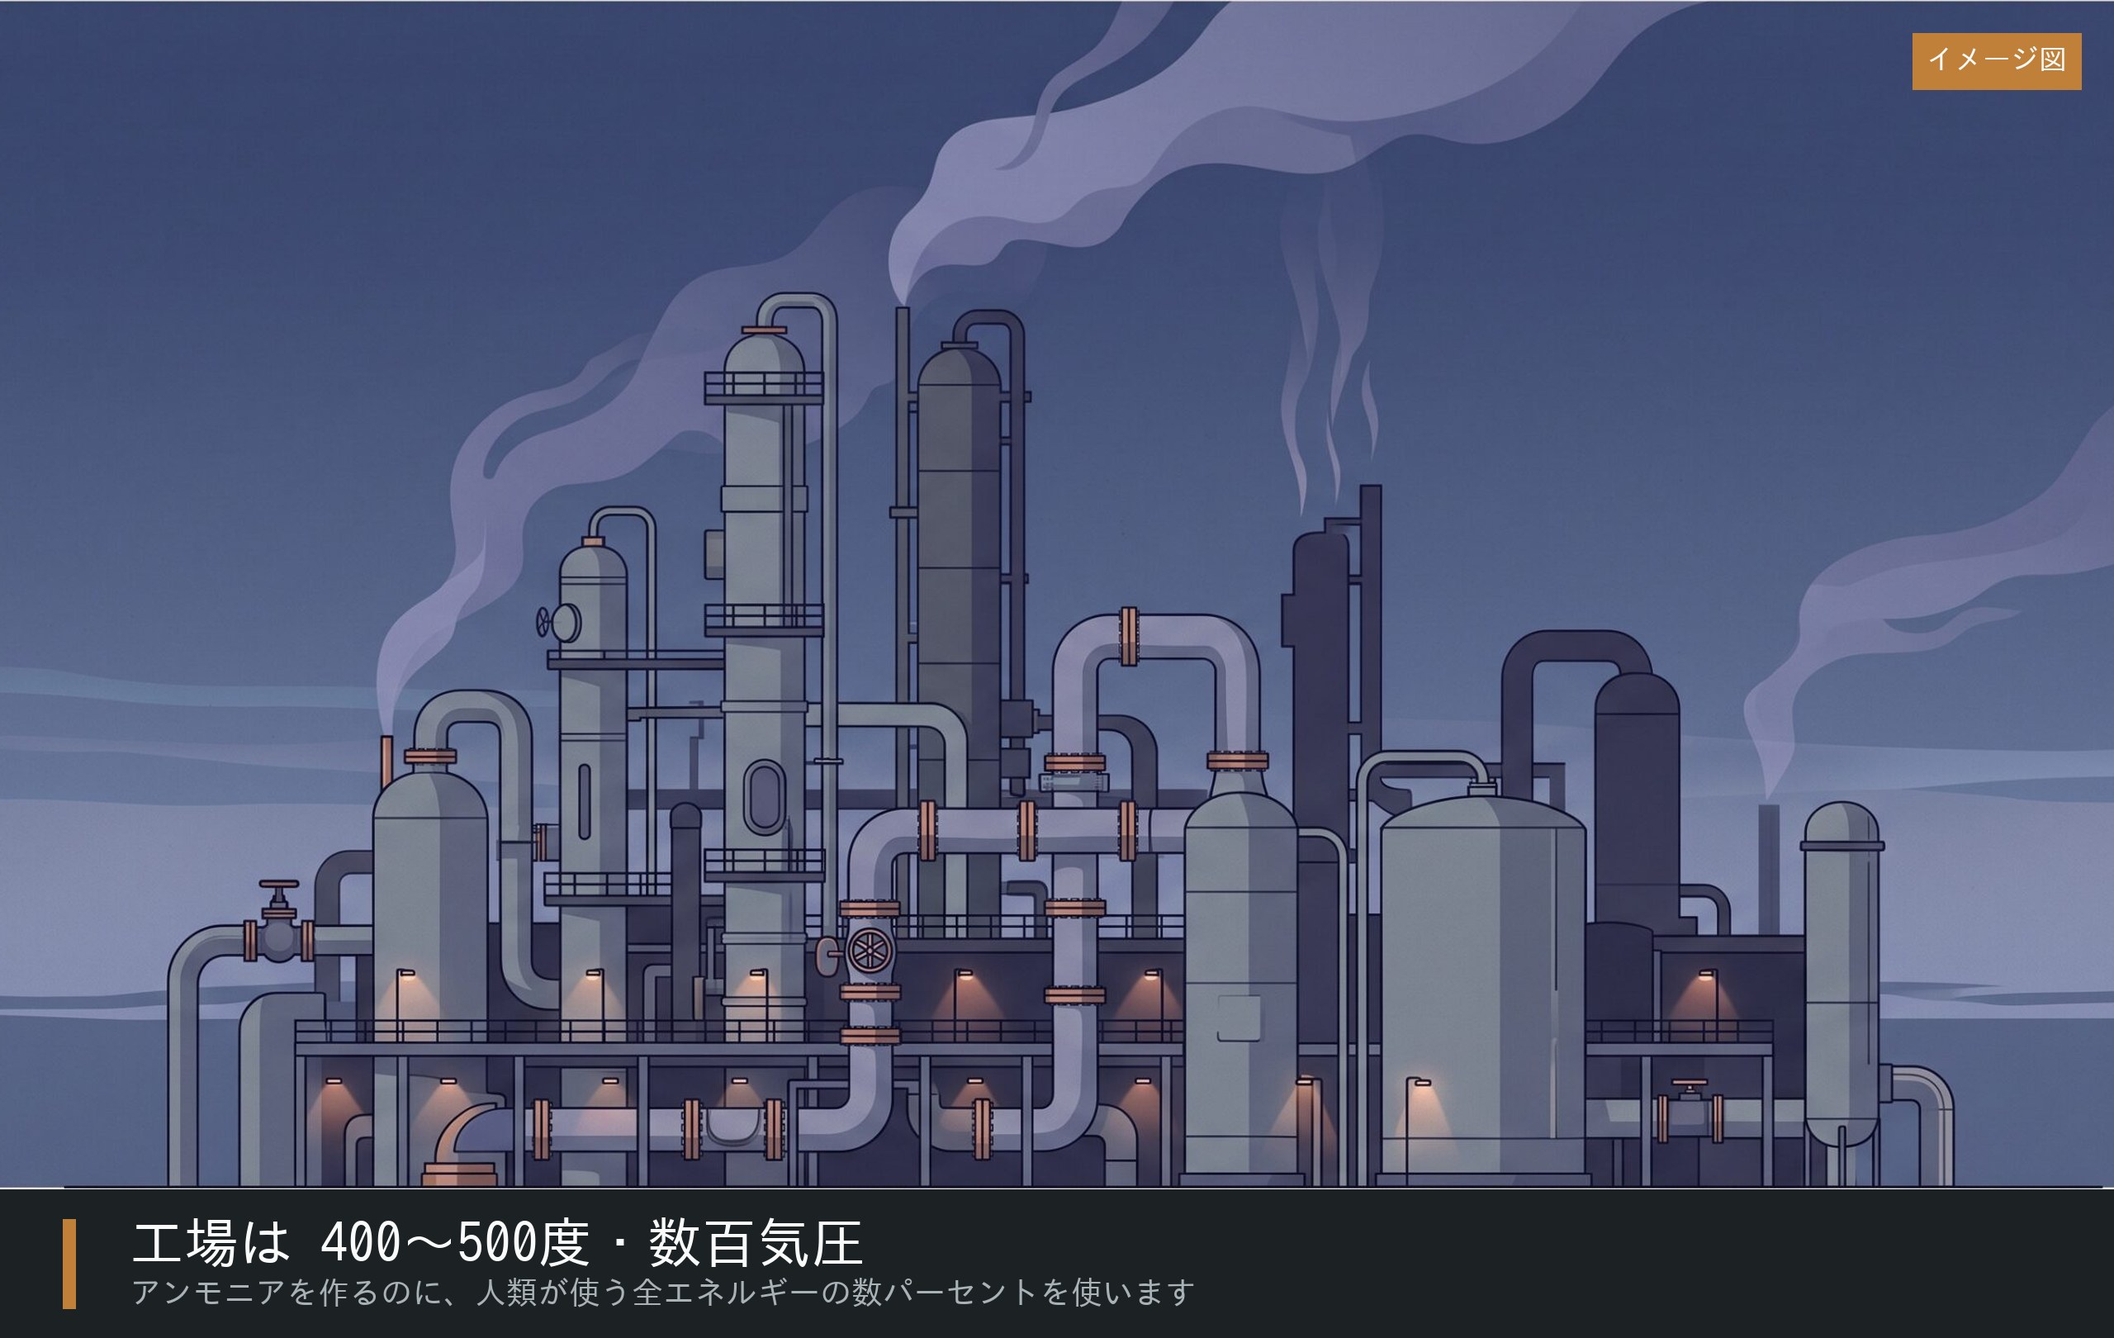
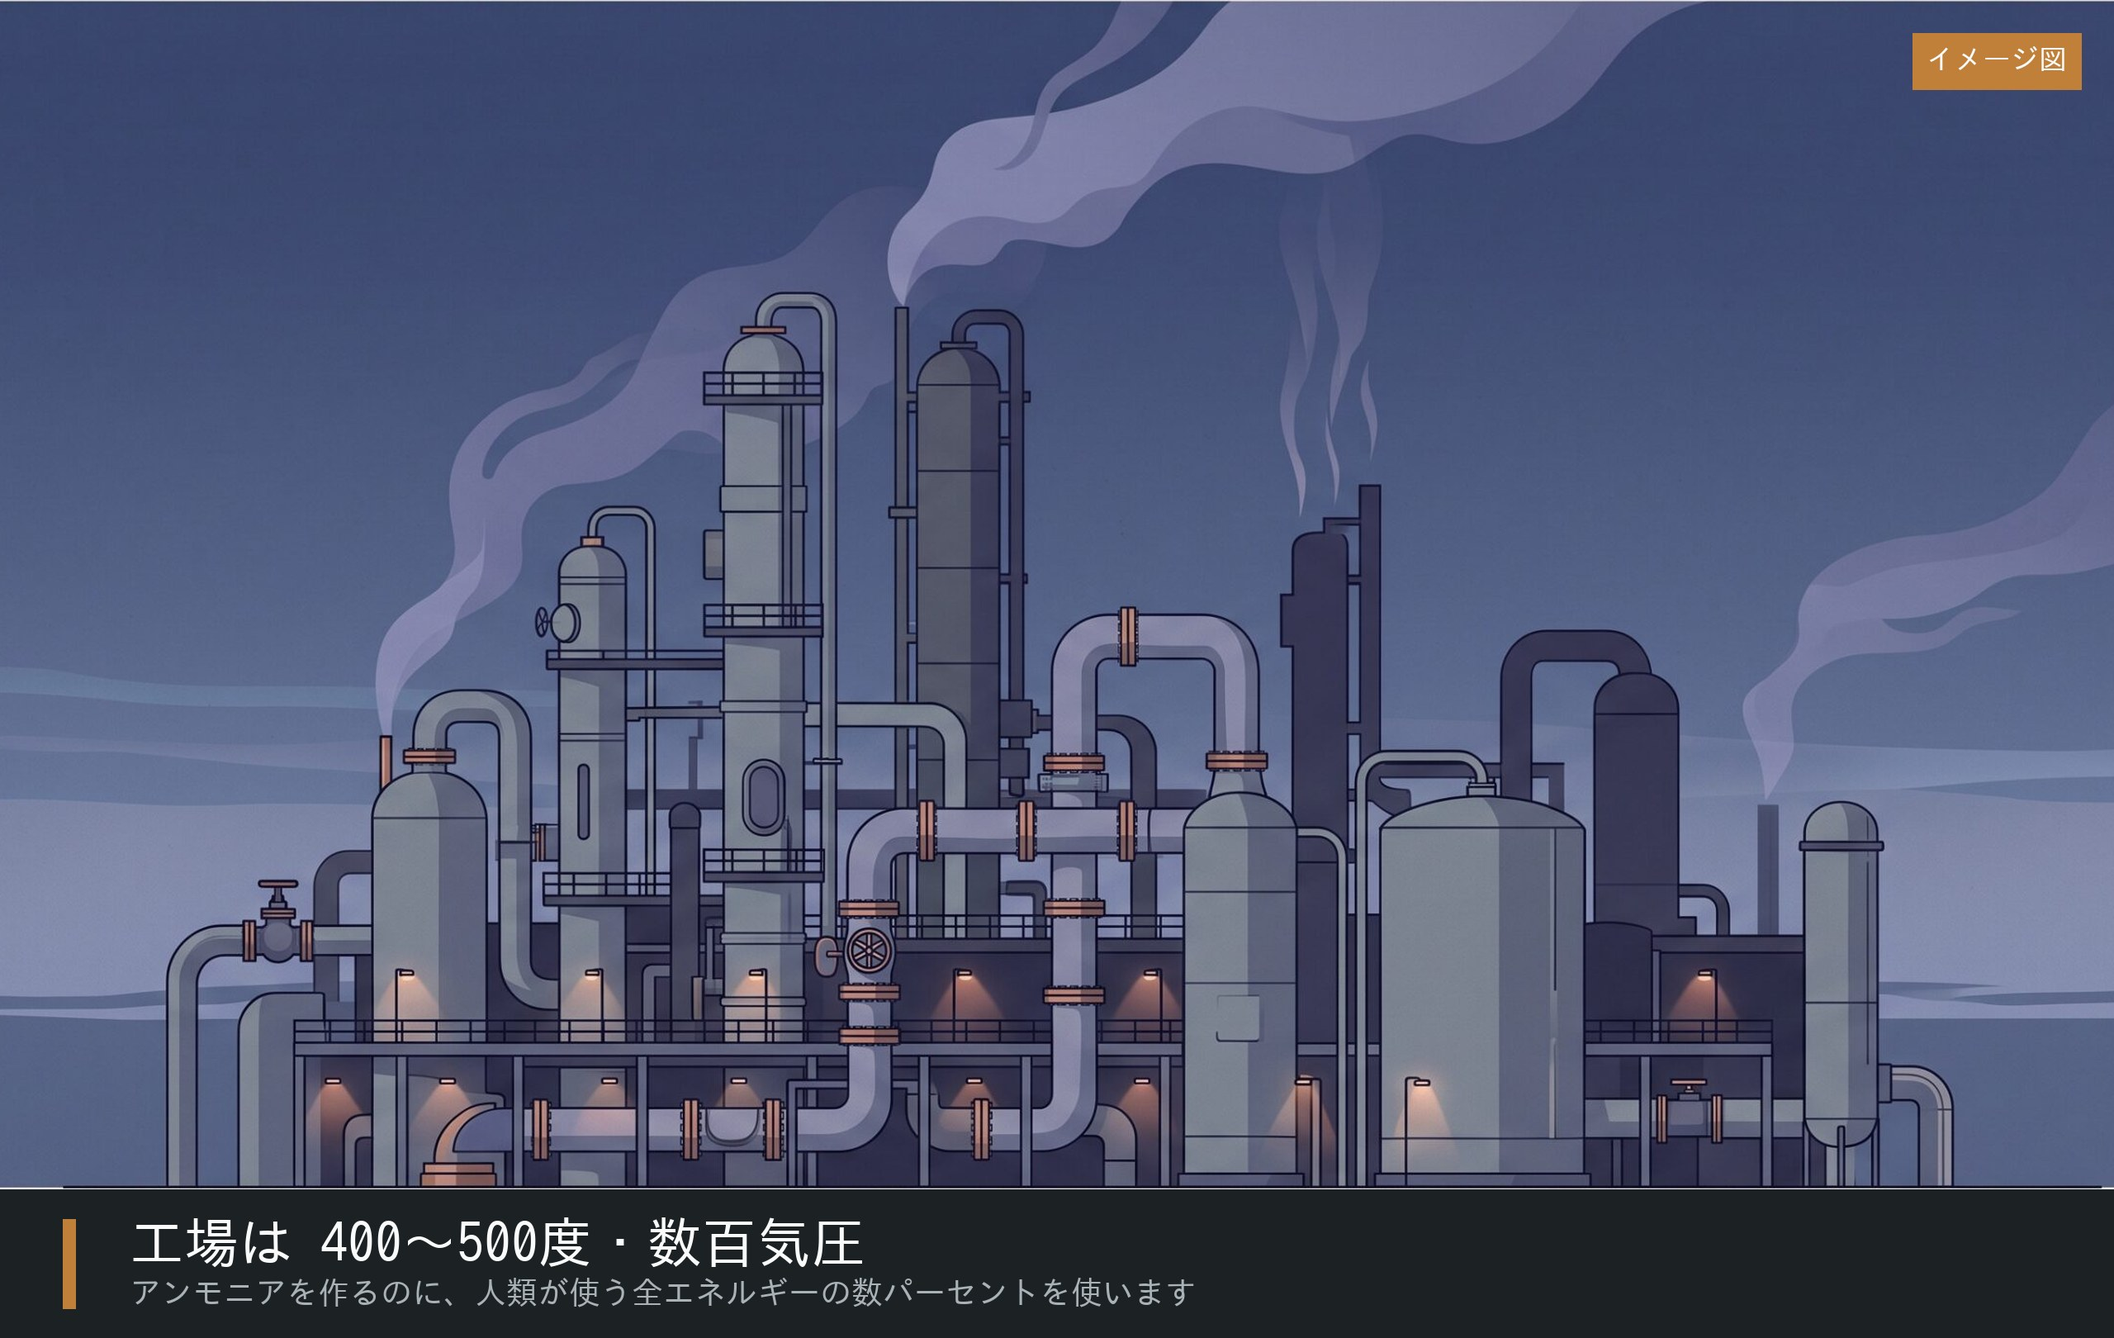
9番の挿絵（砕石場とドローン）を入れ、枠の切り方を直した
第5回「私たちの業界は、どうか」に差し込んだ。記事は
「建設・砕石の分野での量子の活用例は見つからなかった」と書いており、
この絵はいま実際に効いている技術のほうを示している。

trim_border を直した。これまでは「明るい画素が半分以上ある行は枠」と
見ていたため、空が生成り色のこの絵では空まで枠と見なし、ドローンも
重機も切り落としていた。枠は一色の帯でばらつきが無く、空は雲や
濃淡でばらつきが出る。そこで明るさのばらつきで境目を分けるようにし、
画像の1割を超えても枠が終わらなければ止めるようにした。
すでに公開済みの6番で試し、公開中のものと同じ結果になることを
確かめてから9番に使った。

あわせて、9枚の挿絵の対応表を全6回の連載に合わせて書き直した。
前編・後編のままだった「詳細」欄を、サイト側にも入れ直している。

Claude-Session: https://claude.ai/code/session_01NGPfPw8x4vvGbUjgdjVk3R

diff --git a/wordpress/posts/quantum/series/part-5.html b/wordpress/posts/quantum/series/part-5.html
@@ -138,6 +138,8 @@
 <h3 class="wp-block-heading has-medium-font-size">私たちの業界は、どうか</h3>
 <!-- /wp:heading -->
 
+<!-- ISNZ-PHOTO-9 -->
+
 <!-- wp:paragraph {"fontSize":"medium"} -->
 <p class="has-medium-font-size">建設や土木、砕石の分野はどうなのか。気になるところですので、調べました。</p>
 <!-- /wp:paragraph -->

diff --git a/wordpress/docs/build_gazou_seo.py b/wordpress/docs/build_gazou_seo.py
@@ -46,7 +46,7 @@ def thumb_data_uri(url, width=768):
 
 SHOTS = [
     dict(
-        n=1, part=u'前編', where=u'冒頭／アイキャッチ',
+        n=1, part=u'第1回', where=u'冒頭／アイキャッチ',
         title=u'冷凍機',
         url=u'https://www.ishinazaka.co.jp/common/files/uploads/2026/09/'
             u'01-quantum-computer-dilution-refrigerator.jpg',
@@ -56,12 +56,12 @@ SHOTS = [
         mtitle=u'超電導方式の量子コンピュータの希釈冷凍機（イメージ図）',
         caption=u'超電導方式の量子コンピュータを冷やす装置。すべての方式がこうなっている'
                 u'わけではありません。イメージ図（生成AIで作成）',
-        desc=u'「量子コンピュータとは何か【前編】」のアイキャッチ。'
+        desc=u'「量子コンピュータとは？「矢印」でわかる仕組みの基本【第1回】」のアイキャッチ。'
              u'生成AIで作成したイメージ図であり、実在の装置の写真ではありません。',
         note=u'<strong>dilution refrigerator</strong> は「希釈冷凍機」の正式な英語名です。',
     ),
     dict(
-        n=2, part=u'前編', where=u'「1984年から、一本の線がつながっています」',
+        n=2, part=u'第1回', where=u'「1984年から、一本の線がつながっています」',
         title=u'量子ビットのチップ',
         url=u'https://www.ishinazaka.co.jp/common/files/uploads/2026/09/'
             u'02-superconducting-qubit-chip.jpg',
@@ -71,13 +71,13 @@ SHOTS = [
         mtitle=u'超電導方式の量子ビットを載せたチップ（イメージ図）',
         caption=u'超電導方式の量子ビットを載せたチップ。1999年にNECが作った回路の'
                 u'子孫にあたります。イメージ図（生成AIで作成）',
-        desc=u'「量子コンピュータとは何か【前編】」の挿絵。'
+        desc=u'「量子コンピュータとは？「矢印」でわかる仕組みの基本【第1回】」の挿絵。'
              u'生成AIで作成したイメージ図であり、実在の装置の写真ではありません。',
         note=u'表面の十字の形は、実際の超電導量子ビットの電極の形です。'
              u'<strong>qubit</strong> は「量子ビット」の英語です。',
     ),
     dict(
-        n=3, part=u'前編', where=u'「もうひとつ、圧倒的に得意なことがあります」',
+        n=3, part=u'第3回', where=u'冒頭／アイキャッチ',
         title=u'矢印を持った分子',
         url=u'https://www.ishinazaka.co.jp/common/files/uploads/2026/09/'
             u'03-molecule-electron-arrows.jpg',
@@ -87,12 +87,12 @@ SHOTS = [
         mtitle=u'分子の中の電子と「矢印」（イメージ図）',
         caption=u'分子の中の電子も「矢印」を持っています。だから量子の機械と相性が'
                 u'よいのです。イメージ図（生成AIで作成）',
-        desc=u'「量子コンピュータとは何か【前編】」の挿絵。'
+        desc=u'「量子コンピュータのよくある誤解3つ【第3回】」のアイキャッチ。'
              u'生成AIで作成したイメージ図であり、実在の装置の写真ではありません。',
         note=u'記事の図（矢印の打ち消し合い）と同じ矢印が出るように頼んであります。',
     ),
     dict(
-        n=4, part=u'前編', where=u'「なぜ、普通のコンピュータでは追いつけないのか」',
+        n=4, part=u'第2回', where=u'冒頭／アイキャッチ',
         title=u'スーパーコンピュータの列',
         url=u'https://www.ishinazaka.co.jp/common/files/uploads/2026/09/'
             u'04-supercomputer-server-aisle.jpg',
@@ -102,12 +102,12 @@ SHOTS = [
         mtitle=u'スーパーコンピュータの並ぶ通路（イメージ図）',
         caption=u'50量子ビットを普通のコンピュータで再現するには、1ペタバイトを超える'
                 u'メモリが要りました。イメージ図（生成AIで作成）',
-        desc=u'「量子コンピュータとは何か【前編】」の挿絵。'
+        desc=u'「量子コンピュータはなぜ速いのか？【第2回】」のアイキャッチ。'
              u'生成AIで作成したイメージ図であり、実在の装置の写真ではありません。',
         note=u'',
     ),
     dict(
-        n=5, part=u'後編', where=u'冒頭／アイキャッチ',
+        n=5, part=u'第4回', where=u'冒頭／アイキャッチ',
         title=u'四つの違う装置',
         url=u'https://www.ishinazaka.co.jp/common/files/uploads/2026/09/'
             u'05-quantum-computer-four-modalities.jpg',
@@ -117,12 +117,12 @@ SHOTS = [
         mtitle=u'量子コンピュータの主な方式（イメージ図）',
         caption=u'作り方は六通りあり、まだ本命が決まっていません。主な方式のイメージ図'
                 u'（生成AIで作成）',
-        desc=u'「量子コンピュータとは何か【後編】」のアイキャッチ。'
+        desc=u'「量子コンピュータの現状｜6つの方式【第4回】」のアイキャッチ。'
              u'生成AIで作成したイメージ図であり、実在の装置の写真ではありません。',
         note=u'',
     ),
     dict(
-        n=6, part=u'後編', where=u'「本命は、分子と材料のシミュレーションです」（7番と対）',
+        n=6, part=u'第5回', where=u'冒頭／アイキャッチ',
         title=u'アンモニアの工場',
         url=u'https://www.ishinazaka.co.jp/common/files/uploads/2026/09/'
             u'06-ammonia-plant-haber-bosch.jpg',
@@ -132,12 +132,12 @@ SHOTS = [
         mtitle=u'アンモニアを合成する工場（イメージ図）',
         caption=u'肥料のもとになるアンモニアは、400〜500度・数百気圧で作られています。'
                 u'イメージ図（生成AIで作成）',
-        desc=u'「量子コンピュータとは何か【後編】」の挿絵。7番（根粒）と対で使います。'
-             u'生成AIで作成したイメージ図であり、実在の設備の写真ではありません。',
+        desc=u'「量子コンピュータの用途｜本命は分子と材料【第5回】」のアイキャッチ。'
+             u'7番（根粒）と対で使います。生成AIで作成したイメージ図であり、実在の設備の写真ではありません。',
         note=u'<strong>Haber-Bosch</strong> は「ハーバー・ボッシュ法」の英語表記です。',
     ),
     dict(
-        n=7, part=u'後編', where=u'6番のすぐ下。対にして使う',
+        n=7, part=u'第5回', where=u'「本命は、分子と材料のシミュレーションです」',
         title=u'マメ科の根粒',
         url=u'https://www.ishinazaka.co.jp/common/files/uploads/2026/09/'
             u'07-soybean-root-nodules.jpg',
@@ -147,12 +147,12 @@ SHOTS = [
         mtitle=u'マメ科の根につく根粒（イメージ図）',
         caption=u'マメ科の根につく根粒。ここでは常温・常圧で、同じことが行われています。'
                 u'しくみはまだ解明されていません。イメージ図（生成AIで作成）',
-        desc=u'「量子コンピュータとは何か【後編】」の挿絵。6番（工場）と対で使います。'
-             u'生成AIで作成したイメージ図であり、実物の写真ではありません。',
+        desc=u'「量子コンピュータの用途｜本命は分子と材料【第5回】」の挿絵。'
+             u'6番（工場）と対で使います。生成AIで作成したイメージ図であり、実物の写真ではありません。',
         note=u'<strong>root nodule</strong> は「根粒」の英語です。',
     ),
     dict(
-        n=8, part=u'後編', where=u'「セキュリティのための機械ではありません」',
+        n=8, part=u'第6回', where=u'冒頭／アイキャッチ',
         title=u'錠前の付け替え',
         url=u'https://www.ishinazaka.co.jp/common/files/uploads/2026/09/'
             u'08-padlock-old-and-new.jpg',
@@ -162,20 +162,21 @@ SHOTS = [
         mtitle=u'古い錠前と新しい錠前（イメージ図）',
         caption=u'量子コンピュータは暗号を「壊す側」です。国は2035年を目処に、'
                 u'錠前の付け替えを進めています。イメージ図（生成AIで作成）',
-        desc=u'「量子コンピュータとは何か【後編】」の挿絵。'
+        desc=u'「量子コンピュータと暗号｜2035年に何が変わるのか【最終回】」のアイキャッチ。'
              u'生成AIで作成したイメージ図であり、実物の写真ではありません。',
         note=u'',
     ),
     dict(
-        n=9, part=u'後編', where=u'「私たちの業界は、どうか」',
-        title=u'砕石場とドローン', url=u'',
+        n=9, part=u'第5回', where=u'「私たちの業界は、どうか」',
+        title=u'砕石場とドローン',
+        url=u'https://www.ishinazaka.co.jp/common/files/uploads/2026/09/09-drone-survey-quarry.jpg',
         fname=u'09-drone-survey-quarry.jpg',
         alt=u'砕石場と土木の現場のイメージ図。段状に削られた岩肌と粒度ごとに'
             u'積まれた骨材の山があり、その上空を小型のドローンが飛んでいる',
         mtitle=u'砕石場の上を飛ぶ測量ドローン（イメージ図）',
         caption=u'いま現場で効いているのは、量子ではなくドローンによる測量や'
                 u'3次元の設計データです。イメージ図（生成AIで作成）',
-        desc=u'「量子コンピュータとは何か【後編】」の挿絵。'
+        desc=u'「量子コンピュータの用途｜本命は分子と材料【第5回】」の挿絵。'
              u'生成AIで作成したイメージ図であり、実在の現場の写真ではありません。',
         note=u'記事は「建設・砕石の分野での量子の活用例は見つからなかった」と'
              u'書いています。この絵は<strong>いま実際に効いている技術</strong>のほうです。',

diff --git a/wordpress/images/label_images.py b/wordpress/images/label_images.py
@@ -119,6 +119,7 @@ LABELS = {
         head=u'いま現場で効いているのは、こちら',
         sub=u'ドローンによる測量、3次元の設計データ、遠隔での立会い。量子ではありません',
         callouts=[],
+        trim=True,   # まわりにクリーム色の縁があるため
     ),
 }
 
@@ -150,34 +151,40 @@ def trim_border(im):
 
     自動判定はしない。背景そのものが生成りの絵（3番など）を
     壊してしまうため、LABELS に trim=True と書いたものだけに使う。
+
+    枠の見つけ方は「明るさのばらつき」で見る。以前は「明るい画素が
+    半分以上ある行は枠」としていたが、空が生成り色の絵（9番の砕石場）
+    では空まで枠と見なして、絵の中身まで切り落としてしまった。
+    枠は一色の帯なのでばらつきがほぼ無く、空は雲や濃淡があるので
+    ばらつきが出る。そこで境目を分ける。
     """
+    from PIL import ImageStat
     w, h = im.size
-    px = im.convert('RGB').load()
+    g = im.convert('L')
+    FLAT = 2.0          # これ以下のばらつきなら、枠とみなす
 
-    def paper(x, y):
-        r, g, b = px[x, y]
-        return (r + g + b) / 3.0 > 235 and (max(r, g, b) - min(r, g, b)) < 22
+    def row_flat(y):
+        return ImageStat.Stat(g.crop((0, y, w, y + 1))).stddev[0] <= FLAT
 
-    def ratio_row(y):
-        xs = range(0, w, 8)
-        return sum(1 for x in xs if paper(x, y)) / float(len(xs))
-
-    def ratio_col(x):
-        ys = range(0, h, 8)
-        return sum(1 for y in ys if paper(x, y)) / float(len(ys))
+    def col_flat(x):
+        return ImageStat.Stat(g.crop((x, 0, x + 1, h))).stddev[0] <= FLAT
 
     def first(rng, f):
         for i in rng:
-            if f(i) < 0.5:
+            if not f(i):
                 return i
         return None
 
-    top = first(range(h), ratio_row)
-    bot = first(range(h - 1, -1, -1), ratio_row)
-    left = first(range(w), ratio_col)
-    right = first(range(w - 1, -1, -1), ratio_col)
+    # 枠は画像の1割より厚くはならない。それ以上進んだら判定を誤っている。
+    lim_v, lim_h = h // 10, w // 10
+    top = first(range(0, lim_v), row_flat)
+    bot = first(range(h - 1, h - 1 - lim_v, -1), row_flat)
+    left = first(range(0, lim_h), col_flat)
+    right = first(range(w - 1, w - 1 - lim_h, -1), col_flat)
     if None in (top, bot, left, right):
-        raise SystemExit(u'枠を切ろうとしましたが、絵の範囲が分かりませんでした。')
+        raise SystemExit(
+            u'枠を切ろうとしましたが、画像の1割を超えても枠が終わりませんでした。\n'
+            u'枠ではないものを枠と見ている恐れがあるので、止めます。')
     if (left, top, right, bot) == (0, 0, w - 1, h - 1):
         print(u'  枠はありませんでした（切らずに進みます）')
         return im

diff --git a/wordpress/posts/quantum/series/plan.py b/wordpress/posts/quantum/series/plan.py
@@ -137,7 +137,7 @@ PARTS = [
         desc=u'量子コンピュータの用途です。何に使えるのか。本命は分子と材料の'
              u'シミュレーションです。肥料の原料を常温で作る話、分野ごとの現在地、'
              u'そして建設や砕石の分野ではどうかまで。全6回の第5回です。',
-        featured=6, body_img=[('2-05', 7)],
+        featured=6, body_img=[('2-05', 7), ('2-07', 9)],
         secs=['2-03', '2-04', '2-05', '2-06', '2-07', '2-09'],
         lead=[
             u'第5回は、<strong>結局、何の分野で使えるのか</strong>です。',

diff --git a/wordpress/posts/quantum/series/post_series.py b/wordpress/posts/quantum/series/post_series.py
@@ -123,7 +123,7 @@ def gather(smm, auth):
     """写真の情報を集める。"""
     shots = {s['n']: s for s in smm.load_shots()}
     media = {}
-    for n in range(1, 9):
+    for n in range(1, 10):
         md = smm.find_by_url(shots[n]['url'], auth)
         if not md:
             sys.exit(u'× %d番の画像がサイトに見つかりません' % n)
